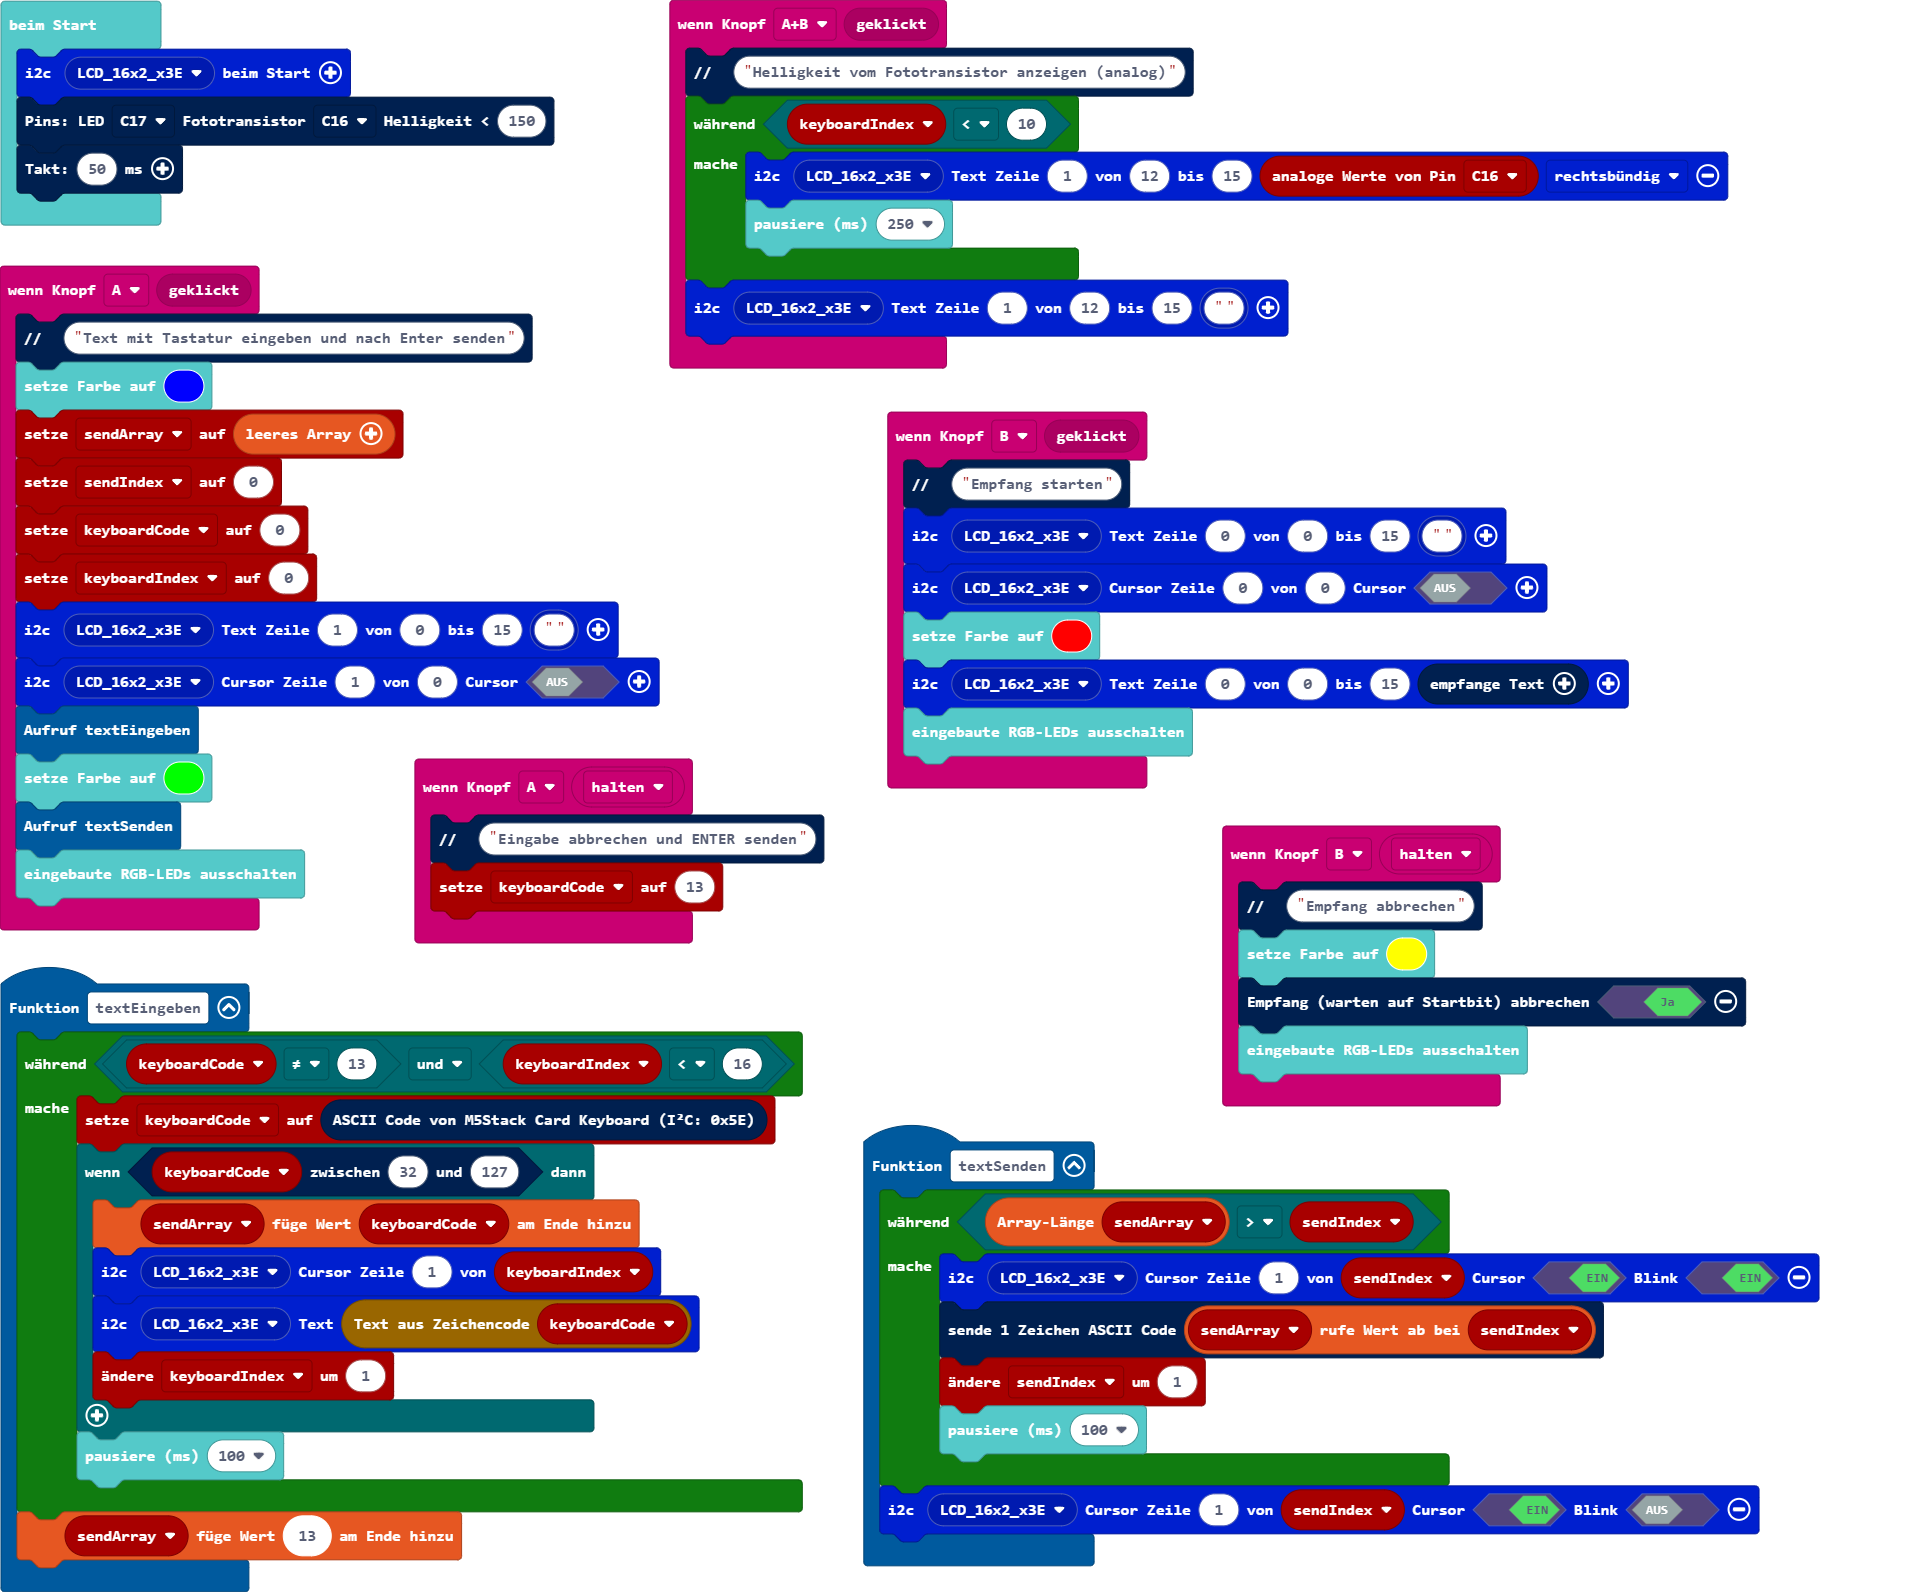
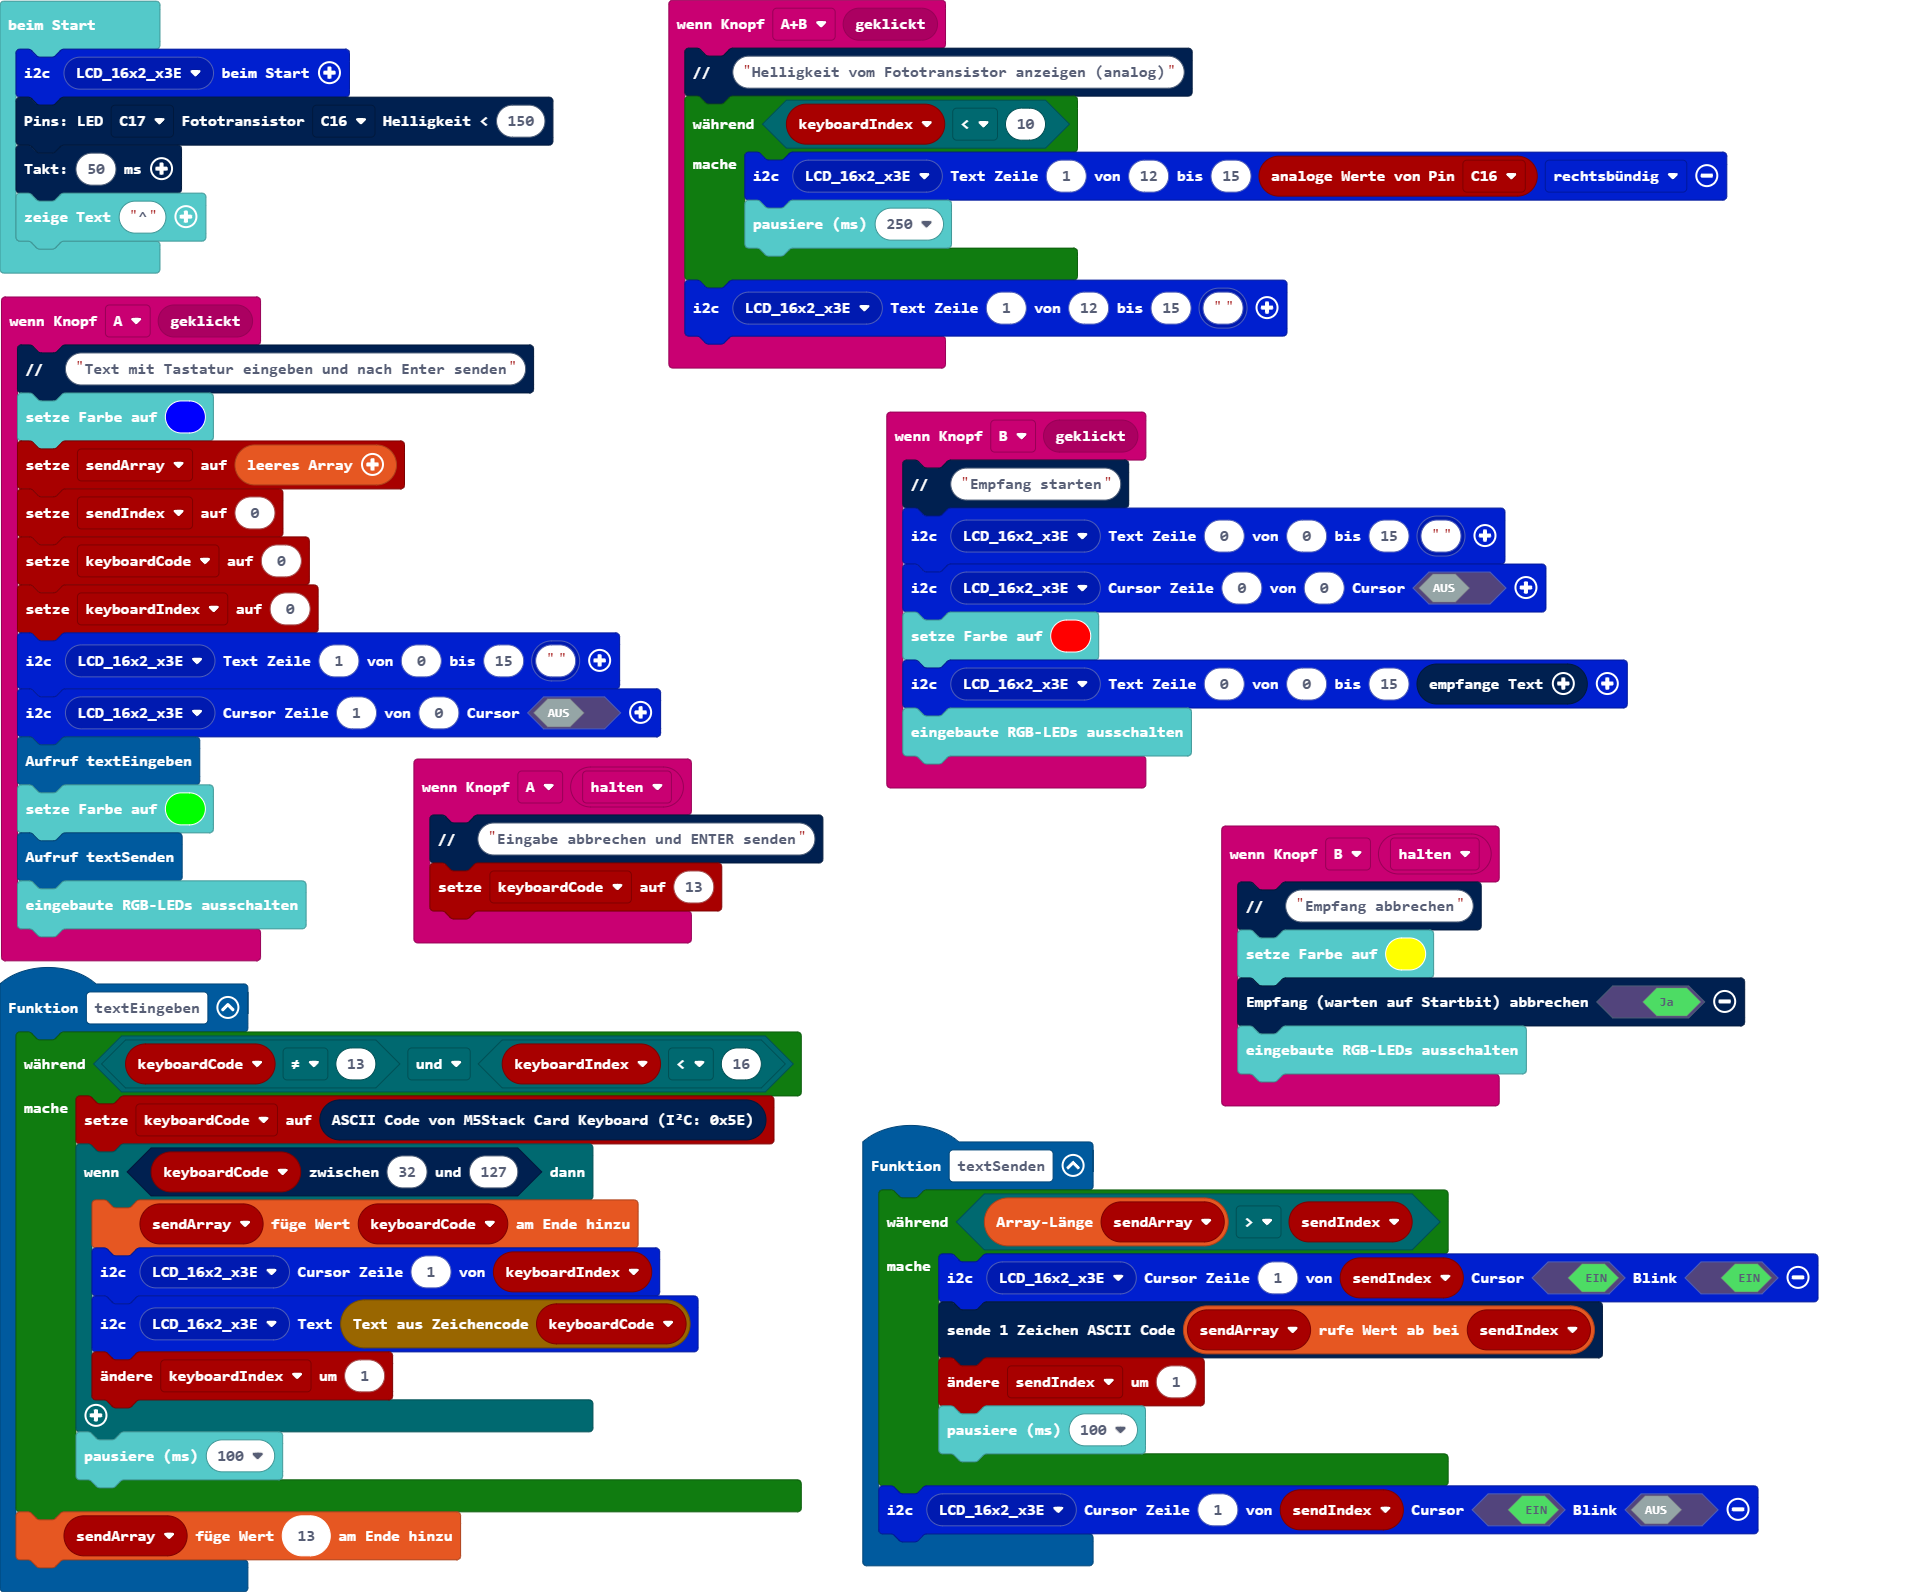
Aktualisiere main.blocks, main.ts

diff --git a/main.ts b/main.ts
@@ -67,3 +67,4 @@ let sendArray: number[] = []
 lcd16x2rgb.initLCD(lcd16x2rgb.lcd16x2_eADDR(lcd16x2rgb.eADDR_LCD.LCD_16x2_x3E))
 rs232.setPins(DigitalPin.C17, AnalogPin.C16, 150)
 rs232.setTakt(50)
+basic.showString("^")
